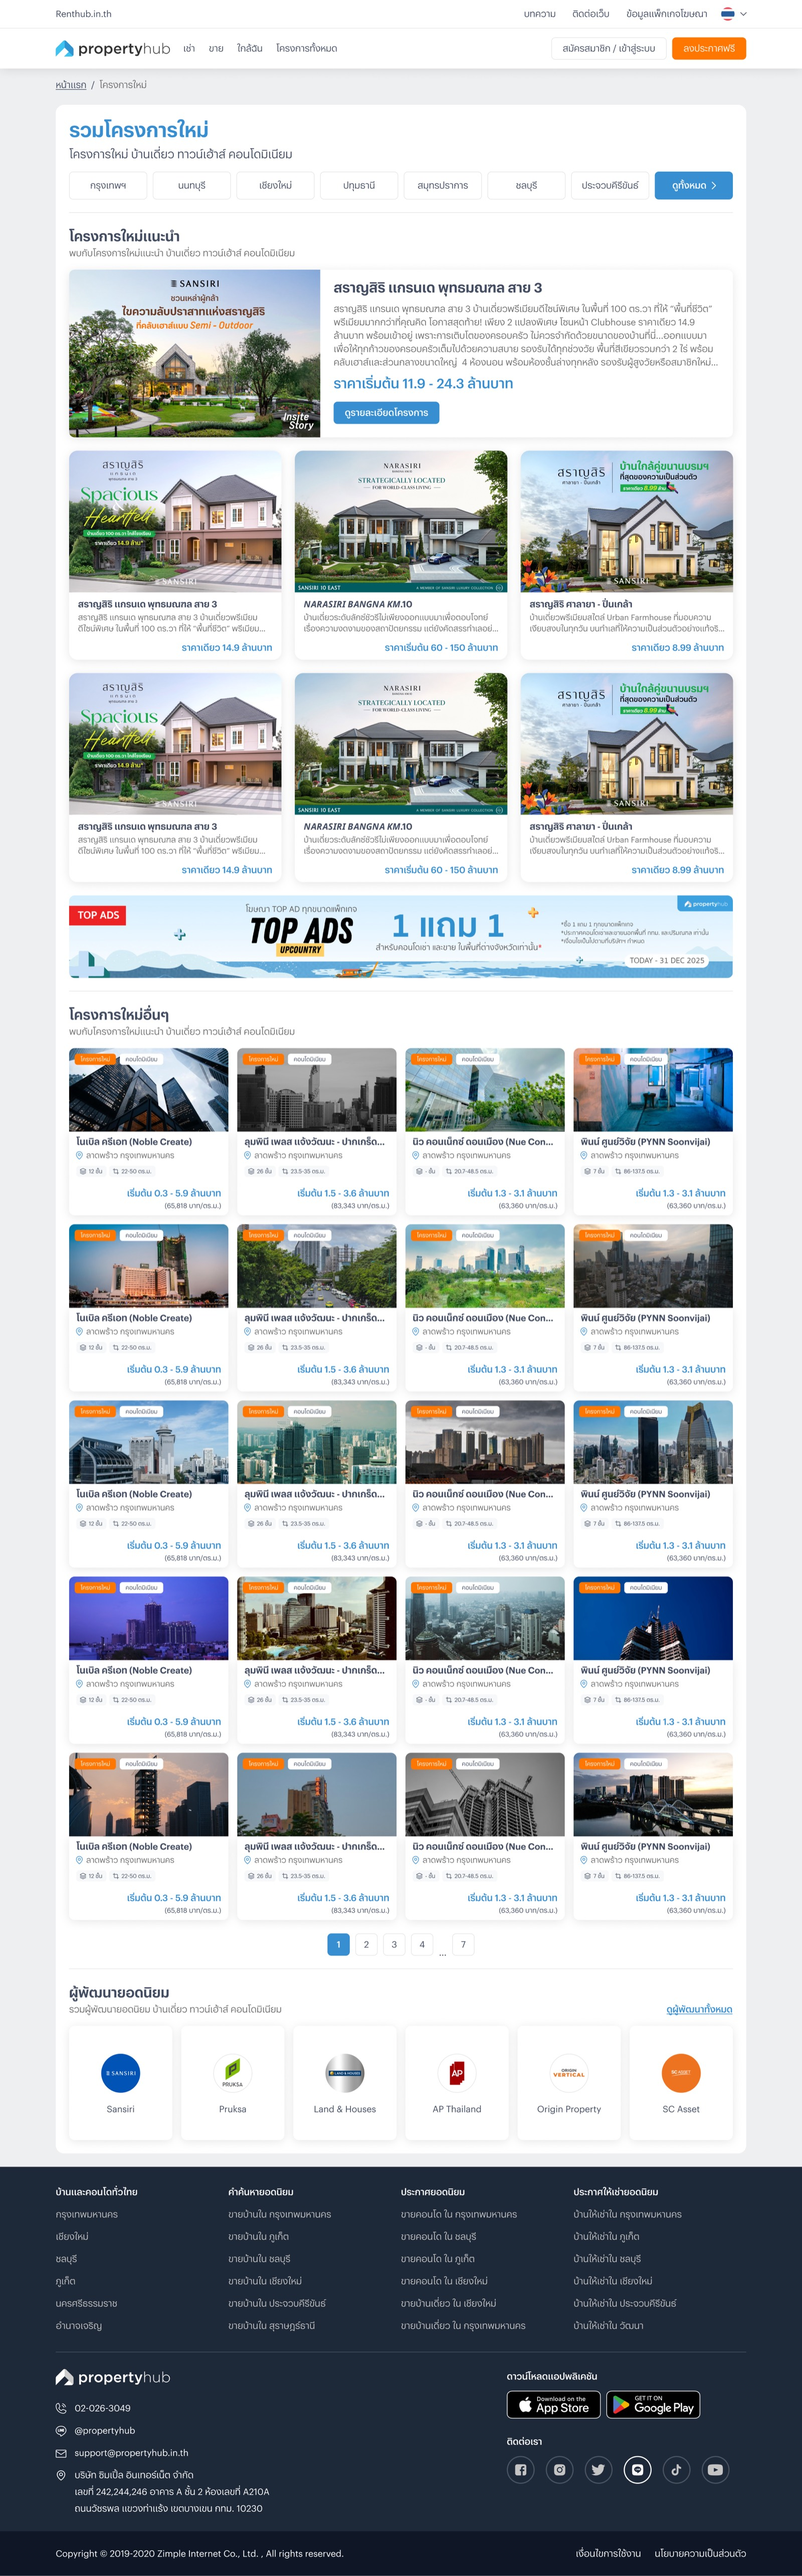
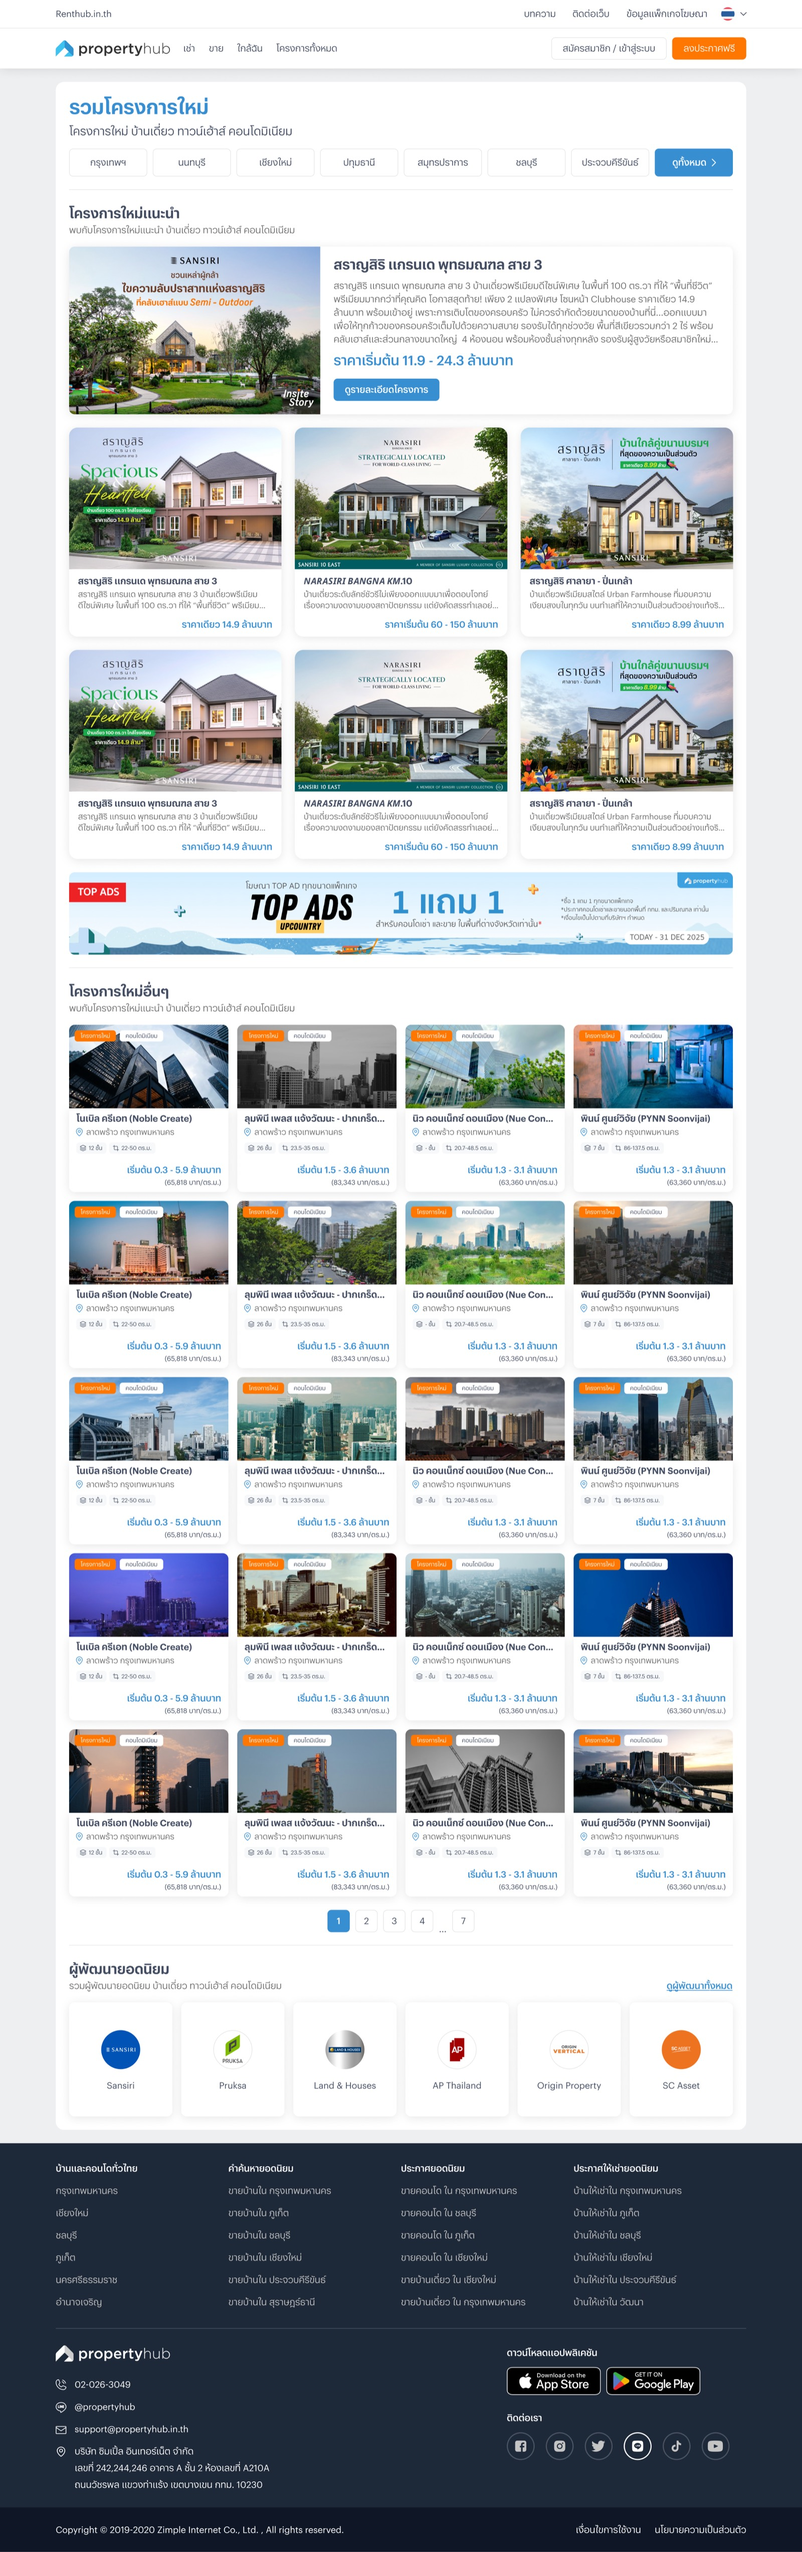
Propertyhub screens: Home listing detail, Mobile responsive, app onboarding + assetbank
- propertyhub (web): add Listing Detail to Home category; new Mobile (Responsive)
  section (Home / Listing Detail / Asset Bank)
- propertyhub-app: add Onboarding section (5 screens) + Asset Bank screens in Detail
- includes prior uncommitted web screens (Project Detail, Developers, Asset Banks,
  Sign in/up, Listing Result)

diff --git a/src/data/projects.ts b/src/data/projects.ts
@@ -59,6 +59,10 @@ export type Project = {
   /** โชว์ screens แบบ "รูปเต็มยาว" (inline เต็มความสูง) แทน browser-frame gallery
    *  เหมาะกับงานที่มีจอน้อย (เช่น 1 หน้า) — ดูทั้งหน้ารวดเดียวไม่ต้องกดขยาย */
   screensFull?: boolean;
+  /** Screens แยกตาม category (โครงเดียวกับ placeholder webScreens) — ถ้ามี จะ render แทน flat `screens`
+   *  แต่ละ category = panel เทา + header(ชื่อ) + grid จอในกรอบ browser (กดดูเต็ม)
+   *  phone:true → AppScreensShowcase (จอมือถือ) · category ที่ screens:[] → ป้าย "เร็ว ๆ นี้" */
+  webScreens?: { category: string; phone?: boolean; screens: { src?: string; label?: string; group?: string; w?: number; h?: number }[] }[];
   /** การ์ด stat ลอยบน hero (portpro-style) — ไม่ใส่ก็ได้, โชว์เฉพาะที่มีข้อมูล */
   heroBadges?: { icon: string; value: string; label: string }[];
 
@@ -139,39 +143,59 @@ export const projects = {
     heroMock: "product", // หน้า case study โชว์ fake product-UI แทน screenshot จริง
     heroWeb: "/uploads/propertyhub-hero-web.png",
     heroPhone: "/uploads/propertyhub-hero-phone-v2.png",
-    // 3 จอจริงจาก Propertyhub — เลื่อนดูทั้งหน้าได้ในกรอบ หรือกดขยายเต็มจอ
-    screens: [
+    // Screens แยกตาม category (grid) — category ที่ยังไม่มีรูป = screens:[] → โชว์ "เร็ว ๆ นี้"
+    webScreens: [
       {
-        label: "Home",
-        desc: "หน้าแรกของ Propertyhub — จุดเริ่มต้นการค้นหา รวมทางเข้าไปยังเช่า/ขาย โครงการใหม่ และทรัพย์แนะนำ",
-        url: "propertyhub.in.th",
-        src: "/uploads/propertyhub-home-full-v2.jpg",
-        w: 1600,
-        h: 7403,
+        category: "Sign Up / Sign In",
+        screens: [
+          { label: "Sign in", src: "/uploads/propertyhub-signin.jpg", w: 4320, h: 3072 },
+          { label: "Sign up", src: "/uploads/propertyhub-signup.jpg", w: 4320, h: 3072 },
+        ],
       },
       {
-        label: "Project detail",
-        desc: "หน้ารายละเอียดโครงการ — รวมข้อมูล ทำเล และประกาศเช่า/ขายในโครงการเดียวกัน เป็นจุดที่ traffic เข้าสูงสุด",
-        url: "propertyhub.in.th/project",
-        src: "/uploads/propertyhub-project-detail.jpg",
-        w: 1600,
-        h: 5106,
+        // Home + flow ต่อเนื่อง (Listing Result · Listing Detail จะตามมา)
+        category: "Home",
+        screens: [
+          { label: "Home", src: "/uploads/propertyhub-home-full-v2.jpg", w: 1600, h: 7403 },
+          { label: "Listing Detail", src: "/uploads/propertyhub-listing-detail.jpg", w: 4320, h: 15296 },
+          { label: "Listing Result", src: "/uploads/propertyhub-listing-result.jpg", w: 4320, h: 15016 },
+        ],
       },
       {
-        label: "AssetBank — ทรัพย์มือสองจากธนาคาร",
-        desc: "หน้ารวมทรัพย์ NPA ราคาพิเศษจากธนาคารชั้นนำ พร้อมระบบค้นหาและโปรโมชันดอกเบี้ยต่ำ",
-        url: "propertyhub.in.th/asset-bank",
-        src: "/uploads/propertyhub-assetbank.jpg",
-        w: 1600,
-        h: 5890,
+        category: "Project Detail",
+        screens: [
+          { label: "Overview", src: "/uploads/propertyhub-detail-overview.jpg", w: 4320, h: 13665 },
+          { label: "Amenities", src: "/uploads/propertyhub-detail-amenities.jpg", w: 4320, h: 12891 },
+          { label: "Floor plan", src: "/uploads/propertyhub-detail-floorplan.jpg", w: 4320, h: 12237 },
+          { label: "Floor plan (list)", src: "/uploads/propertyhub-detail-floorplan-list.jpg", w: 4320, h: 12237 },
+          { label: "Reviews", src: "/uploads/propertyhub-detail-reviews.jpg", w: 4320, h: 12880 },
+        ],
       },
       {
-        label: "New projects",
-        desc: "หน้ารวมโครงการใหม่ บ้าน–ทาวน์เฮาส์–คอนโด คัดโครงการแนะนำและจัดกลุ่มตามทำเล/ผู้พัฒนา",
-        url: "propertyhub.in.th/new-projects",
-        src: "/uploads/propertyhub-new-projects.jpg",
-        w: 1600,
-        h: 5138,
+        category: "New Project",
+        screens: [
+          { label: "New projects", src: "/uploads/propertyhub-new-projects.jpg", w: 4320, h: 13750 },
+          { label: "Developers", src: "/uploads/propertyhub-developers.jpg", w: 4320, h: 7776 },
+          { label: "Developer detail", src: "/uploads/propertyhub-developer-detail.jpg", w: 4320, h: 10163 },
+        ],
+      },
+      {
+        category: "Asset Banks",
+        screens: [
+          { label: "Home", src: "/uploads/propertyhub-assetbank-home.jpg", w: 4320, h: 15903 },
+          { label: "All banks", src: "/uploads/propertyhub-assetbank.jpg", w: 4320, h: 9514 },
+          { label: "Kasikorn (KBANK)", src: "/uploads/propertyhub-assetbank-kbank.jpg", w: 4320, h: 9562 },
+        ],
+      },
+      {
+        // จอมือถือ (responsive) — phone:true → AppScreensShowcase · เริ่มด้วย Home (ใช้รูป hero phone เดิม) จออื่นตามมาทีหลัง
+        category: "Mobile (Responsive)",
+        phone: true,
+        screens: [
+          { label: "Home", src: "/uploads/propertyhub-hero-phone-v2.png", w: 864, h: 1726 },
+          { label: "Listing Detail", src: "/uploads/propertyhub-mobile-detail.png", w: 660, h: 1320 },
+          { label: "Asset Bank", src: "/uploads/propertyhub-mobile-assetbank.png", w: 660, h: 1320 },
+        ],
       },
     ],
     liveUrl: "https://propertyhub.in.th/",
@@ -837,19 +861,20 @@ export const placeholderProjects = {
         ],
       },
       {
-        // section Home จัดเป็น 3 สล็อต: [Home ยาว] | [dropdown ซ้อนลงมา] | [step ซ้อนลงมา]
-        // จอที่ group เดียวกันจะถูกซ้อนลงมาในสล็อตเดียว (ดู WebScreensPanel) — Home ไม่มี group = สล็อตเดี่ยว
         category: "Home",
         screens: [
           { label: "Home", src: "/uploads/renthub-agency-home.jpg", w: 1600, h: 6807 },
-          { label: "Search destination", src: "/uploads/renthub-agency-home-search-v2.jpg", group: "dropdown", w: 4320, h: 3072 },
-          { label: "Price range", src: "/uploads/renthub-agency-home-price.jpg", group: "dropdown", w: 4320, h: 3072 },
-          { label: "Search room type", src: "/uploads/renthub-agency-home-roomtype.jpg", group: "dropdown", w: 4320, h: 3072 },
-          { label: "Step 1 — Contact info", src: "/uploads/renthub-agency-home-step1-contact-v2.jpg", group: "step", w: 4320, h: 3072 },
-          { label: "Step 2 — Budget", src: "/uploads/renthub-agency-home-step2-budget-v2.jpg", group: "step", w: 4320, h: 3072 },
-          { label: "Step 3 — Amenities", src: "/uploads/renthub-agency-home-step3-amenities-v2.jpg", group: "step", w: 4320, h: 3072 },
-          { label: "Step 4 — Location", src: "/uploads/renthub-agency-home-step4-location-v2.jpg", group: "step", w: 4320, h: 3072 },
-          { label: "Well done", src: "/uploads/renthub-agency-home-welldone.jpg", group: "step", w: 4320, h: 3072 },
+        ],
+      },
+      {
+        // flow ให้ผู้ใช้กรอกความต้องการ (ติดต่อ → งบ → สิ่งอำนวยความสะดวก → ทำเล) แล้วให้ทีมช่วยหาห้อง
+        category: "Find My Home",
+        screens: [
+          { label: "Step 1 — Contact info", src: "/uploads/renthub-agency-home-step1-contact-v2.jpg", w: 4320, h: 3072 },
+          { label: "Step 2 — Budget", src: "/uploads/renthub-agency-home-step2-budget-v2.jpg", w: 4320, h: 3072 },
+          { label: "Step 3 — Amenities", src: "/uploads/renthub-agency-home-step3-amenities-v2.jpg", w: 4320, h: 3072 },
+          { label: "Step 4 — Location", src: "/uploads/renthub-agency-home-step4-location-v2.jpg", w: 4320, h: 3072 },
+          { label: "Well done", src: "/uploads/renthub-agency-home-welldone.jpg", w: 4320, h: 3072 },
         ],
       },
       {

diff --git a/src/components/case-study/web-screens-panel.tsx b/src/components/case-study/web-screens-panel.tsx
@@ -35,9 +35,12 @@ function buildColumns(shots: Shot[]): { s: Shot; i: number }[][] {
 export function WebScreensPanel({
   title,
   screens,
+  variant = "rail",
 }: {
   title?: string;
   screens: WebScreen[];
+  /** "rail" = จอเต็มความสูงเลื่อนแนวนอน (default) · "grid" = จอในกรอบ browser crop หัวเท่ากัน 2 ต่อแถว */
+  variant?: "rail" | "grid";
 }) {
   const shots = screens.filter((s): s is Shot => Boolean(s.src));
   const [active, setActive] = React.useState<number | null>(null);
@@ -81,6 +84,49 @@ export function WebScreensPanel({
         /* category ที่ยังไม่มีรูป — ป้าย "เร็ว ๆ นี้" */
         <div className="mx-[clamp(18px,3vw,30px)] flex items-center justify-center rounded-xl border border-dashed border-border/70 py-10 text-[14px] text-muted-foreground">
           รูปกำลังจะมา — เร็ว ๆ นี้
+        </div>
+      ) : variant === "grid" ? (
+        /* grid — จอในกรอบ browser · crop หัวเท่ากัน + ป้าย "full page" · 2 ต่อแถว (≥560px) · กดดูเต็ม */
+        <div className="grid grid-cols-1 items-start gap-4 px-[clamp(18px,3vw,30px)] min-[560px]:grid-cols-2 min-[560px]:gap-6">
+          {shots.map((s, i) => {
+            // จอยาว (h/w > 1) → crop + ป้าย "full page" · จอเตี้ย → โชว์เต็มจอในกรอบ (กรอบ border ปิดครบ) ไม่มีป้าย
+            const tall = (s.h ?? 5000) / (s.w ?? 1600) > 1;
+            return (
+              <button
+                key={s.src}
+                type="button"
+                onClick={() => setActive(i)}
+                aria-label={`ดู ${s.label ?? title ?? "ภาพ"} เต็มหน้า`}
+                className="group relative block w-full cursor-pointer overflow-hidden rounded-[12px] border border-border bg-white shadow-[0_18px_44px_-24px_rgba(30,50,90,0.28)] outline-none transition-shadow duration-200 hover:shadow-[0_26px_60px_-24px_rgba(30,50,90,0.34)] focus-visible:ring-2 focus-visible:ring-brand focus-visible:ring-offset-2"
+              >
+                {/* chrome — traffic lights */}
+                <div className="flex items-center gap-2 border-b border-border bg-white px-3.5 py-2.5">
+                  <span className="flex shrink-0 gap-1.5">
+                    <span className="h-2.5 w-2.5 rounded-full" style={{ background: "#ff5f57" }} />
+                    <span className="h-2.5 w-2.5 rounded-full" style={{ background: "#febc2e" }} />
+                    <span className="h-2.5 w-2.5 rounded-full" style={{ background: "#28c840" }} />
+                  </span>
+                </div>
+
+                {/* จอยาว = top-crop สูงเท่ากัน + fade + ป้าย full page · จอเตี้ย = เต็มจอในกรอบ */}
+                <div className={"relative bg-white" + (tall ? " h-[clamp(240px,30vw,340px)] overflow-hidden" : "")}>
+                  <Image
+                    src={s.src}
+                    alt={[title, s.label].filter(Boolean).join(" — ") || "screen"}
+                    width={s.w ?? 1600}
+                    height={s.h ?? 5000}
+                    sizes="(max-width: 560px) 100vw, 420px"
+                    quality={88}
+                    unoptimized
+                    className="block h-auto w-full"
+                  />
+                  {tall && (
+                    <div className="pointer-events-none absolute inset-x-0 bottom-0 h-20 bg-gradient-to-t from-white via-white/70 to-transparent" />
+                  )}
+                </div>
+              </button>
+            );
+          })}
         </div>
       ) : (
         /* rail — จอเรียง scroll แนวนอน · top-align · แต่ละสล็อตอาจเป็นจอเดี่ยว หรือจอย่อยซ้อนลงมา */

diff --git a/src/components/case-study/case-study-view.tsx b/src/components/case-study/case-study-view.tsx
@@ -23,6 +23,7 @@ import { ScrollWindow } from "./scroll-window";
 import { CropWindow } from "./crop-window";
 import { LaptopMock } from "./laptop-mock";
 import { WebScreensPanel } from "./web-screens-panel";
+import { AppScreensShowcase } from "./app-screens-showcase";
 import { MeasurementStory } from "./measurement-story";
 import { ClaudeSection } from "./claude-section";
 import { WorkflowProcess } from "./workflow-process";
@@ -417,15 +418,31 @@ export function CaseStudyView({
       )}
 
       {/* ── ALL ABOUT WORKS — the designed screens ── */}
-      {p.screens && p.screens.length > 0 && (
+      {((p.webScreens && p.webScreens.length > 0) ||
+        (p.screens && p.screens.length > 0)) && (
         <>
           <div className="my-8 h-px bg-border min-[900px]:my-[50px]" />
           <section>
             <H2>Screens</H2>
-            {/* screensFull = โชว์รูปเต็มยาว (จอน้อย) · ปกติ = browser-frame gallery */}
-            {p.screensFull ? (
+            {p.webScreens && p.webScreens.length > 0 ? (
+              // แยกตาม category (grid) — phone category = จอมือถือ (AppScreensShowcase) · ที่เหลือ = grid เว็บ
+              <div className="mt-8 flex flex-col gap-6">
+                {p.webScreens.map((c) =>
+                  c.phone ? (
+                    <AppScreensShowcase
+                      key={c.category}
+                      title={c.category}
+                      screens={c.screens.flatMap((s) => (s.src ? [{ src: s.src, label: s.label ?? "" }] : []))}
+                    />
+                  ) : (
+                    <WebScreensPanel key={c.category} title={c.category} screens={c.screens} variant="grid" />
+                  ),
+                )}
+              </div>
+            ) : p.screensFull ? (
+              // screensFull = โชว์รูปเต็มยาว (จอน้อย)
               <div className="mt-[26px] space-y-10">
-                {p.screens.map((s) =>
+                {p.screens!.map((s) =>
                   s.src ? (
                     <figure key={s.src}>
                       {s.desc && (
@@ -448,8 +465,10 @@ export function CaseStudyView({
               </div>
             ) : (
               <div className="mt-[26px]">
-                {/* Screens แบบ Expat — panel เทา + rail (ยังไม่แยก category → ไม่ใส่ title) */}
-                <WebScreensPanel screens={p.screens} />
+                {/* Screens — panel เทา (ยังไม่แยก category → ไม่ใส่ title) */}
+                {/* แบบเดิม (rail — จอเต็มสูง เลื่อนแนวนอน) · เก็บไว้เผื่อกลับมาใช้ */}
+                {/* <WebScreensPanel screens={p.screens!} /> */}
+                <WebScreensPanel screens={p.screens!} variant="grid" />
               </div>
             )}
           </section>

diff --git a/src/components/case-study/propertyhub-app-view.tsx b/src/components/case-study/propertyhub-app-view.tsx
@@ -14,6 +14,7 @@ import {
   LayoutList,
   Menu,
   MessageSquareText,
+  Sparkles,
   type LucideIcon,
 } from "lucide-react";
 import type { PlaceholderProject } from "@/data/projects";
@@ -49,6 +50,19 @@ const S = (src: string, label: string): Shot => ({ src: `/uploads/${src}`, label
 
 const TABS: { tab: string; en: string; icon: LucideIcon; screens: Shot[] }[] = [
   {
+    // 5 จอ onboarding — step 1–4 + step 5 (propertyhub-app-onboarding.png เดิม = จอ "มาเริ่มกันเลย")
+    tab: "เริ่มต้นใช้งาน",
+    en: "Onboarding",
+    icon: Sparkles,
+    screens: [
+      S("propertyhub-app-onboarding-1.png", "สวัสดี"),
+      S("propertyhub-app-onboarding-2.png", "ค้นหาด้วยแผนที่"),
+      S("propertyhub-app-onboarding-3.png", "ค้นหาแบบพื้นที่"),
+      S("propertyhub-app-onboarding-4.png", "สัญลักษณ์ยืนยันตัวตน"),
+      S("propertyhub-app-onboarding.png", "มาเริ่มกันเลย"),
+    ],
+  },
+  {
     tab: "หน้าหลัก",
     en: "Home",
     icon: Home,
@@ -74,6 +88,8 @@ const TABS: { tab: string; en: string; icon: LucideIcon; screens: Shot[] }[] = [
       S("propertyhub-app-developers.png", "ผู้พัฒนาอสังหาฯ"),
       S("propertyhub-app-developer-detail.png", "รายละเอียดผู้พัฒนา"),
       S("propertyhub-app-agent.png", "โปรไฟล์เอเจนต์"),
+      S("propertyhub-app-assetbank.png", "ทรัพย์ธนาคาร (Asset Bank)"),
+      S("propertyhub-app-assetbank-kbank.png", "ทรัพย์ธนาคารกสิกร (KBANK)"),
     ],
   },
   {

diff --git a/src/components/case-study/placeholder-view.tsx b/src/components/case-study/placeholder-view.tsx
@@ -301,7 +301,9 @@ export function PlaceholderView({ project: p }: { project: PlaceholderProject })
                     screens={c.screens.flatMap((s) => (s.src ? [{ src: s.src, label: s.label ?? "" }] : []))}
                   />
                 ) : (
-                  <WebScreensPanel key={c.category} title={c.category} screens={c.screens} />
+                  // แบบเดิม (rail — จอเต็มสูง เลื่อนแนวนอน) · เก็บไว้เผื่อกลับมาใช้
+                  // <WebScreensPanel key={c.category} title={c.category} screens={c.screens} />
+                  <WebScreensPanel key={c.category} title={c.category} screens={c.screens} variant="grid" />
                 ),
               )}
             </div>
